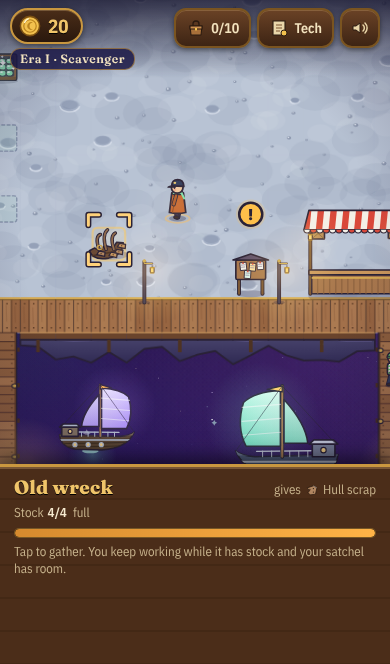
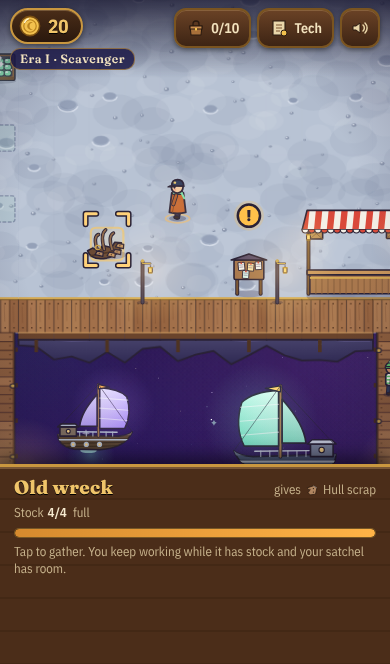
Moonwharf: canvas renderer and art
Claude-Session: https://claude.ai/code/session_01Q6VeayBvxbSiVfQD8nugUU

diff --git a/moonwharf/src/render/terrain.ts b/moonwharf/src/render/terrain.ts
@@ -10,43 +10,64 @@ const WALL_TOP = '#7f88a3', WALL_FRONT = '#545b7a';
 const PLANKS = ['#a2704a', '#ab7a51', '#976541', '#a87650'];
 const PIER_PLANKS = ['#9a6a45', '#a6744c', '#8f603d'];
 
-export class Terrain {
-  private canvas: HTMLCanvasElement | null = null;
-  private q = 0;
+// The terrain is cached in CHUNK x CHUNK tile pieces, built lazily only when visible, so memory and draw
+// cost scale with the screen rather than the map. The cache scale follows zoom*dpr; while the zoom is
+// changing (pinch) the old chunks are stretched and only rebuilt once the zoom settles.
+const CHUNK = 8;
+const MAX_CHUNKS = 40;
 
-  private build(q: number): void {
-    const W = MAP.width + PAD * 2, H = MAP.height + PAD * 2;
-    const c = this.canvas ?? document.createElement('canvas');
-    c.width = Math.ceil(W * q);
-    c.height = Math.ceil(H * q);
+export class Terrain {
+  private chunks = new Map<string, { c: HTMLCanvasElement; used: number }>();
+  private q = 0;
+  private pendingQ = 0;
+  private settle = 0;
+  private frame = 0;
+
+  private build(cx: number, cy: number): HTMLCanvasElement {
+    const q = this.q;
+    const c = document.createElement('canvas');
+    c.width = Math.ceil(CHUNK * q);
+    c.height = Math.ceil(CHUNK * q);
     const ctx = c.getContext('2d')!;
-    ctx.setTransform(q, 0, 0, q, PAD * q, PAD * q);
-    ctx.clearRect(-PAD, -PAD, W, H);
-    paint(ctx);
-    this.canvas = c;
-    this.q = q;
+    const x0 = cx * CHUNK, y0 = cy * CHUNK;
+    ctx.setTransform(q, 0, 0, q, -x0 * q, -y0 * q);
+    ctx.beginPath(); ctx.rect(x0, y0, CHUNK, CHUNK); ctx.clip();
+    paint(ctx, x0 - 2, y0 - 2, x0 + CHUNK + 2, y0 + CHUNK + 3);
+    return c;
   }
 
-  // world transform must be active (1 unit = 1 tile)
-  draw(ctx: Ctx, camX: number, camY: number, viewW: number, viewH: number, pxPerTile: number): void {
-    let q = Math.pow(2, Math.round(Math.log2(Math.max(4, pxPerTile)) * 4) / 4);
-    const maxQ = Math.sqrt(14e6 / ((MAP.width + 2 * PAD) * (MAP.height + 2 * PAD)));
-    q = Math.min(q, maxQ);
-    if (Math.abs(q - this.q) > 1e-6 || !this.canvas) this.build(q);
-    const c = this.canvas!;
-    const x0 = Math.max(-PAD, Math.floor(camX)), y0 = Math.max(-PAD, Math.floor(camY));
-    const x1 = Math.min(MAP.width + PAD, Math.ceil(camX + viewW)), y1 = Math.min(MAP.height + PAD, Math.ceil(camY + viewH));
-    if (x1 <= x0 || y1 <= y0) return;
-    ctx.drawImage(c, (x0 + PAD) * q, (y0 + PAD) * q, (x1 - x0) * q, (y1 - y0) * q, x0, y0, x1 - x0, y1 - y0);
+  // world transform must be active (1 unit = 1 tile). pxPerTile = device px per tile.
+  draw(ctx: Ctx, camX: number, camY: number, viewW: number, viewH: number, pxPerTile: number, dt = 0): void {
+    this.frame++;
+    const want = Math.min(Math.round(pxPerTile * 100) / 100, 160);
+    if (!this.q) this.q = want;
+    if (Math.abs(want - this.pendingQ) > 1e-6) { this.pendingQ = want; this.settle = 0; }
+    else this.settle += dt;
+    if (Math.abs(this.q - this.pendingQ) > 1e-6 && (this.settle > 0.2 || dt === 0)) { this.q = this.pendingQ; this.chunks.clear(); }
+    const cx0 = Math.floor(Math.max(-PAD, camX) / CHUNK), cy0 = Math.floor(Math.max(-PAD, camY) / CHUNK);
+    const cx1 = Math.floor(Math.min(MAP.width + PAD, camX + viewW) / CHUNK), cy1 = Math.floor(Math.min(MAP.height + PAD, camY + viewH) / CHUNK);
+    for (let cy = cy0; cy <= cy1; cy++) for (let cx = cx0; cx <= cx1; cx++) {
+      const key = cx + ',' + cy;
+      let ch = this.chunks.get(key);
+      if (!ch) { ch = { c: this.build(cx, cy), used: 0 }; this.chunks.set(key, ch); }
+      ch.used = this.frame;
+      ctx.drawImage(ch.c, cx * CHUNK, cy * CHUNK, CHUNK, CHUNK);
+    }
+    if (this.chunks.size > MAX_CHUNKS) {
+      const old = [...this.chunks.entries()].sort((a, b) => a[1].used - b[1].used);
+      for (let i = 0; i < old.length - MAX_CHUNKS; i++) this.chunks.delete(old[i][0]);
+    }
   }
 }
 
-function paint(ctx: Ctx): void {
+// paint tiles in [ax,bx) x [ay,by) (clamped to the map); the caller clips to its chunk
+function paint(ctx: Ctx, ax: number, ay: number, bx: number, by: number): void {
   const W = MAP.width, H = MAP.height;
+  const X0 = Math.max(0, ax), Y0 = Math.max(0, ay), X1 = Math.min(W, bx), Y1 = Math.min(H, by);
   ctx.lineJoin = 'round';
   ctx.lineCap = 'round';
   // 1. rocky underside hanging below any land edge that faces open space
-  for (let y = 0; y < H; y++) {
+  for (let y = Math.max(0, ay - 2); y < Math.min(H, by); y++) {
     let x = 0;
     while (x < W) {
       const land = (xx: number) => { const c = tileAt(xx, y); return (c === '#' || c === '.' || c === '=') && tileAt(xx, y + 1) === ' '; };
@@ -58,24 +79,24 @@ function paint(ctx: Ctx): void {
   }
   // 2. regolith ground under everything solid
   ctx.fillStyle = REG;
-  for (let y = 0; y < H; y++) for (let x = 0; x < W; x++) {
+  for (let y = Y0; y < Y1; y++) for (let x = X0; x < X1; x++) {
     const c = tileAt(x, y);
     if (c === '.' || c === '#' || c === '=') ctx.fillRect(x - 0.01, y - 0.01, 1.02, 1.02);
   }
-  for (let y = 0; y < H; y++) for (let x = 0; x < W; x++) if (tileAt(x, y) === '.') regolith(ctx, x, y);
+  for (let y = Y0; y < Y1; y++) for (let x = X0; x < X1; x++) if (tileAt(x, y) === '.') regolith(ctx, x, y);
   // wall shadows on regolith
-  for (let y = 0; y < H; y++) for (let x = 0; x < W; x++) {
+  for (let y = Y0; y < Y1; y++) for (let x = X0; x < X1; x++) {
     if (tileAt(x, y) !== '.') continue;
     if (tileAt(x, y - 1) === '#') { const g = ctx.createLinearGradient(0, y, 0, y + 0.45); g.addColorStop(0, 'rgba(40,40,80,0.28)'); g.addColorStop(1, 'rgba(40,40,80,0)'); ctx.fillStyle = g; ctx.fillRect(x, y, 1, 0.45); }
     if (tileAt(x - 1, y) === '#') { const g = ctx.createLinearGradient(x, 0, x + 0.3, 0); g.addColorStop(0, 'rgba(40,40,80,0.22)'); g.addColorStop(1, 'rgba(40,40,80,0)'); ctx.fillStyle = g; ctx.fillRect(x, y, 0.3, 1); }
     if (tileAt(x + 1, y) === '#') { const g = ctx.createLinearGradient(x + 1, 0, x + 0.8, 0); g.addColorStop(0, 'rgba(40,40,80,0.16)'); g.addColorStop(1, 'rgba(40,40,80,0)'); ctx.fillStyle = g; ctx.fillRect(x + 0.8, y, 0.2, 1); }
   }
   // 3. boardwalk
-  for (let y = 0; y < H; y++) for (let x = 0; x < W; x++) if (tileAt(x, y) === '=') boardwalk(ctx, x, y);
+  for (let y = Y0; y < Y1; y++) for (let x = X0; x < X1; x++) if (tileAt(x, y) === '=') boardwalk(ctx, x, y);
   // 4. piers
-  for (let y = 0; y < H; y++) for (let x = 0; x < W; x++) if (tileAt(x, y) === 'P') pier(ctx, x, y);
+  for (let y = Y0; y < Y1; y++) for (let x = X0; x < X1; x++) if (tileAt(x, y) === 'P') pier(ctx, x, y);
   // 5. rock walls, top row first so lower rows overlap correctly
-  for (let y = 0; y < H; y++) for (let x = 0; x < W; x++) if (tileAt(x, y) === '#') wallTop(ctx, x, y);
+  for (let y = Y0; y < Y1; y++) for (let x = X0; x < X1; x++) if (tileAt(x, y) === '#') wallTop(ctx, x, y);
 }
 
 function crust(ctx: Ctx, x0: number, x1: number, y: number): void {

diff --git a/moonwharf/src/render/space.ts b/moonwharf/src/render/space.ts
@@ -35,20 +35,33 @@ export class Space {
     }
   }
 
+  private sky: HTMLCanvasElement | null = null;
+
   draw(ctx: Ctx, w: number, h: number, cam: Camera, t: number): void {
-    const g = ctx.createLinearGradient(0, 0, 0, h);
+    const cx = cam.x * cam.zoom, cy = cam.y * cam.zoom;
+    // gradient + nebula + vignette are soft, so they are composed at 1/4 resolution and stretched:
+    // one full-screen blit instead of three full-screen fills.
+    const D = 4, sw = Math.ceil(w / D), sh = Math.ceil(h / D);
+    if (!this.sky) this.sky = document.createElement('canvas');
+    const sk = this.sky;
+    if (sk.width !== sw || sk.height !== sh) { sk.width = sw; sk.height = sh; }
+    const c = sk.getContext('2d')!;
+    const g = c.createLinearGradient(0, 0, 0, sh);
     g.addColorStop(0, '#120c2c');
     g.addColorStop(0.55, '#1d1240');
     g.addColorStop(1, '#2a1553');
-    ctx.fillStyle = g;
-    ctx.fillRect(0, 0, w, h);
-    const cx = cam.x * cam.zoom, cy = cam.y * cam.zoom;
-    // nebula, slow parallax + drift
-    const NS = 1024; // drawn at 2x
-    const nx = -(((cx * 0.06 + t * 2) % NS) + NS) % NS, ny = -(((cy * 0.06) % NS) + NS) % NS;
-    ctx.globalAlpha = 0.9;
-    for (let x = nx; x < w; x += NS) for (let y = ny; y < h; y += NS) ctx.drawImage(this.nebula, x, y, NS, NS);
-    ctx.globalAlpha = 1;
+    c.fillStyle = g;
+    c.fillRect(0, 0, sw, sh);
+    const NS = 1024 / D;
+    const nx = -((((cx * 0.06 + t * 2) / D) % NS) + NS) % NS, ny = -((((cy * 0.06) / D) % NS) + NS) % NS;
+    c.globalAlpha = 0.9;
+    for (let x = nx; x < sw; x += NS) for (let y = ny; y < sh; y += NS) c.drawImage(this.nebula, x, y, NS, NS);
+    c.globalAlpha = 1;
+    const v = c.createRadialGradient(sw / 2, sh / 2, Math.min(sw, sh) * 0.4, sw / 2, sh / 2, Math.max(sw, sh) * 0.75);
+    v.addColorStop(0, 'rgba(8,4,24,0)'); v.addColorStop(1, 'rgba(8,4,24,0.45)');
+    c.fillStyle = v; c.fillRect(0, 0, sw, sh);
+    ctx.imageSmoothingEnabled = true;
+    ctx.drawImage(sk, 0, 0, sw * D, sh * D);
     // distant ringed world
     this.planet(ctx, w * 0.78 - cx * 0.03, h * 0.12 - cy * 0.03 + 1200 * 0.03, Math.min(w, h) * 0.16);
     // stars

diff --git a/moonwharf/src/render/renderer.ts b/moonwharf/src/render/renderer.ts
@@ -75,7 +75,7 @@ export function createRenderer(canvas: HTMLCanvasElement): Renderer {
     const S = z * dpr;
     ctx.setTransform(S, 0, 0, S, -cam.x * S, -cam.y * S);
     drawFleet(ctx, s, t);
-    terrain.draw(ctx, cam.x, cam.y, vw, vh, S);
+    terrain.draw(ctx, cam.x, cam.y, vw, vh, S, dt);
 
     // ground decals
     for (const id of ['drydock', 'shipyard']) drawPlatform(ctx, id, s);
@@ -127,7 +127,6 @@ export function createRenderer(canvas: HTMLCanvasElement): Renderer {
 
     // --- screen overlays
     ctx.setTransform(dpr, 0, 0, dpr, 0, 0);
-    vignette(ctx, cw, ch);
     const W = (wx: number, wy: number): [number, number] => [(wx - cam.x) * z, (wy - cam.y) * z];
     overlays(ctx, s, W, z, t, vis);
     if (opts.selected) selectionBrackets(ctx, s, opts.selected, W, z, t);
@@ -158,14 +157,6 @@ function drawFleet(ctx: Ctx, s: GameState, t: number): void {
       drawShip(ctx, x, y, 0.62, st, t, 1);
     }
   });
-}
-
-function vignette(ctx: Ctx, w: number, h: number): void {
-  const g = ctx.createRadialGradient(w / 2, h / 2, Math.min(w, h) * 0.45, w / 2, h / 2, Math.max(w, h) * 0.75);
-  g.addColorStop(0, 'rgba(18,10,40,0)');
-  g.addColorStop(1, 'rgba(18,10,40,0.35)');
-  ctx.fillStyle = g;
-  ctx.fillRect(0, 0, w, h);
 }
 
 function refBounds(s: GameState, r: Ref): { x: number; y: number; w: number; h: number } | null {
